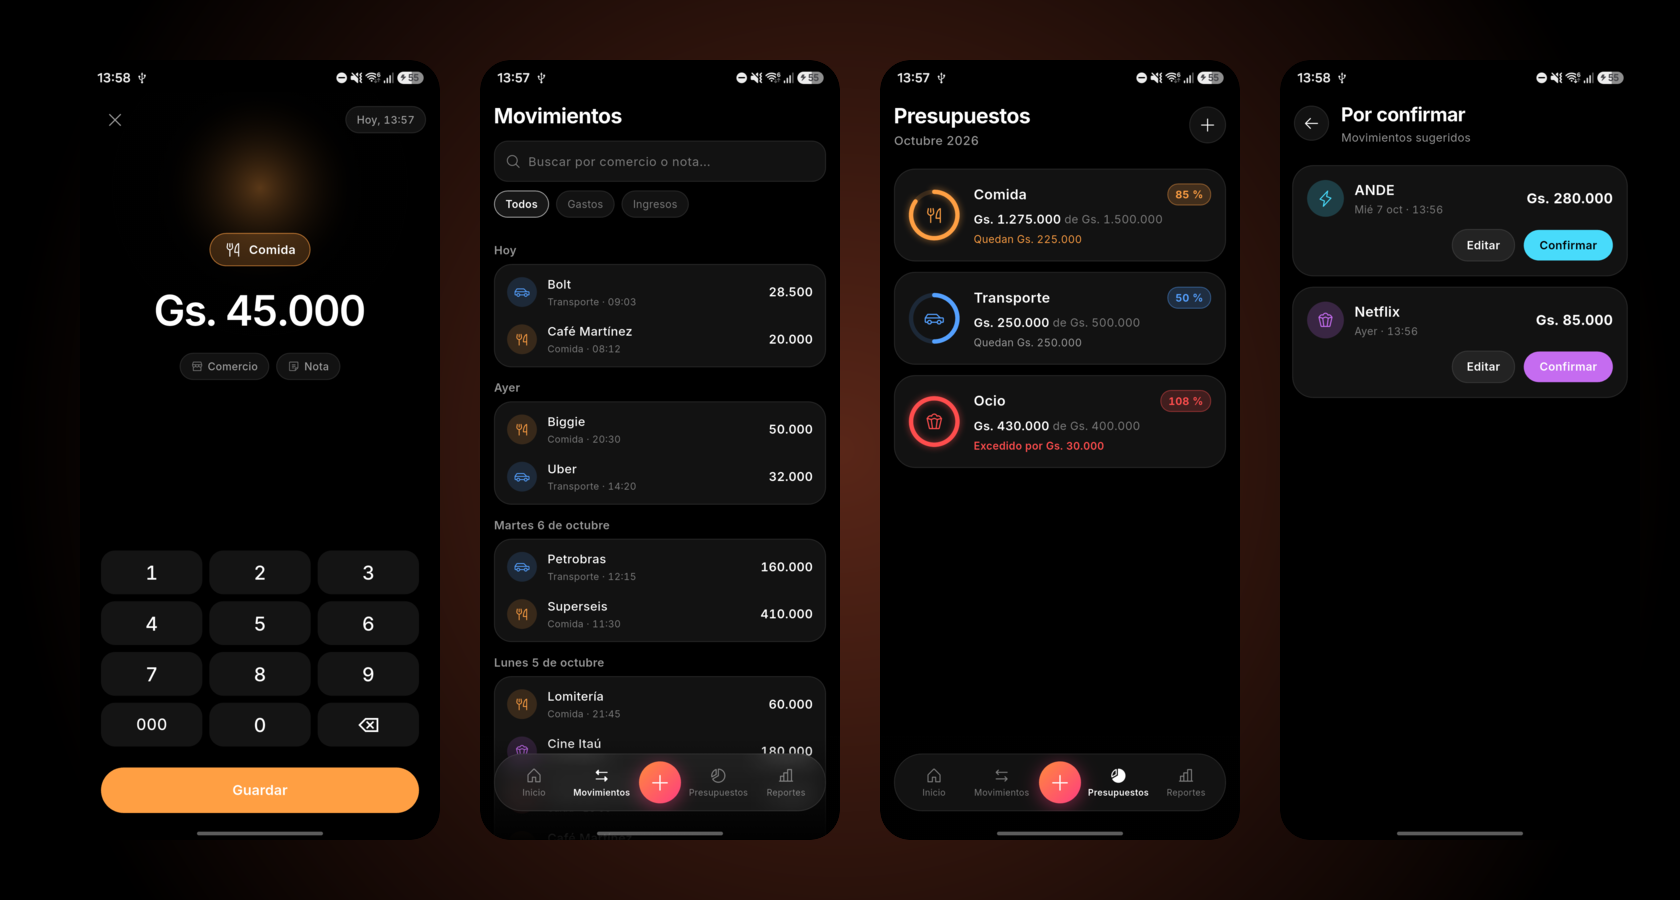
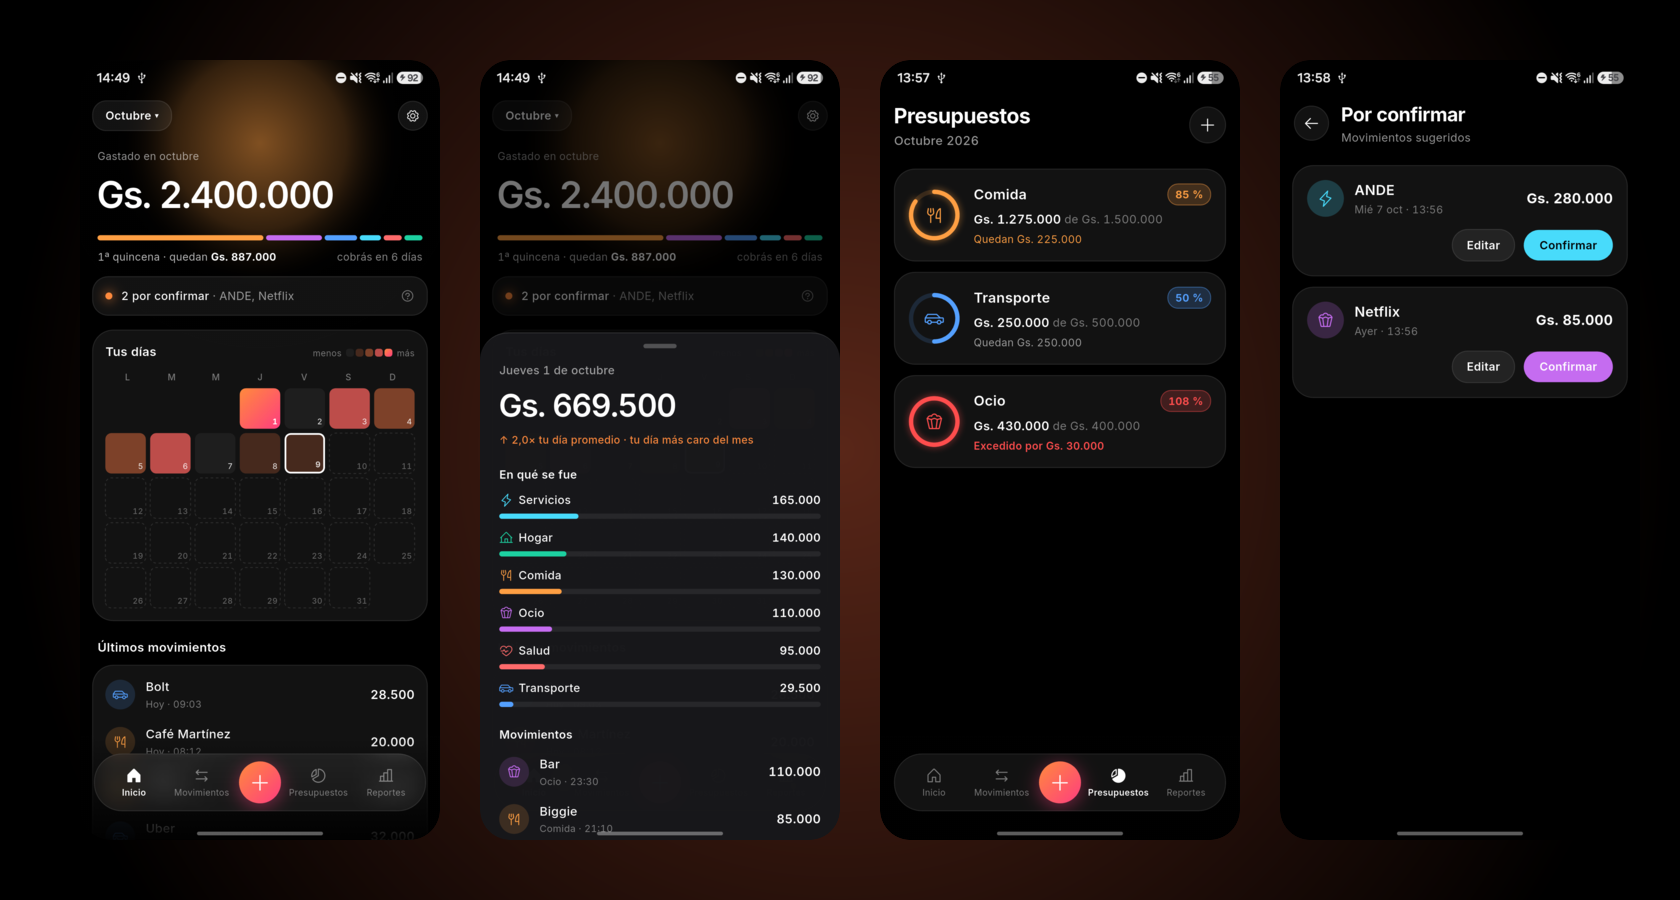
chore: README con capturas del inicio y del detalle del día

diff --git a/README.md b/README.md
@@ -28,7 +28,7 @@ Una app de finanzas personales para Android, **rápida para anotar y hermosa de 
 
 <picture>
   <source media="(prefers-color-scheme: light)" srcset="docs/brand/readme/gallery-light.png">
-  <img src="docs/brand/readme/gallery-dark.png" alt="Pantallas de Pockt: carga, movimientos, presupuestos y bandeja de sugeridos" width="100%">
+  <img src="docs/brand/readme/gallery-dark.png" alt="Pantallas de Pockt: inicio con calendario de calor, detalle del día, presupuestos y bandeja de sugeridos" width="100%">
 </picture>
 
 ---
@@ -111,7 +111,7 @@ El diseño completo está en [`docs/superpowers/specs/`](docs/superpowers/specs/
 | Etapa | Contenido | |
 |---|---|---|
 | **Plan 1** | Base, carga de gastos, inicio, calendario de calor, movimientos, texto natural que aprende | ✅ v0.1 |
-| **Plan 2** | Presupuestos, recurrentes, esquema de cobro, bandeja de sugeridos, Ajustes | 🚧 casi listo |
+| **Plan 2** | Presupuestos, recurrentes, cobro quincenal con días hábiles y feriados, bandeja de sugeridos, Ajustes | ✅ v0.2 |
 | **Plan 3** | Reportes, recordatorios, apariencia, logotipo y apertura animada, widget y acceso rápido | ⏳ |
 | **Plan 4** | Backup cifrado, restauración, bloqueo con huella, primer uso | ⏳ |
 | **Después** | Motor de captura: leer notificaciones de bancos, SMS y correos | 💡 |
